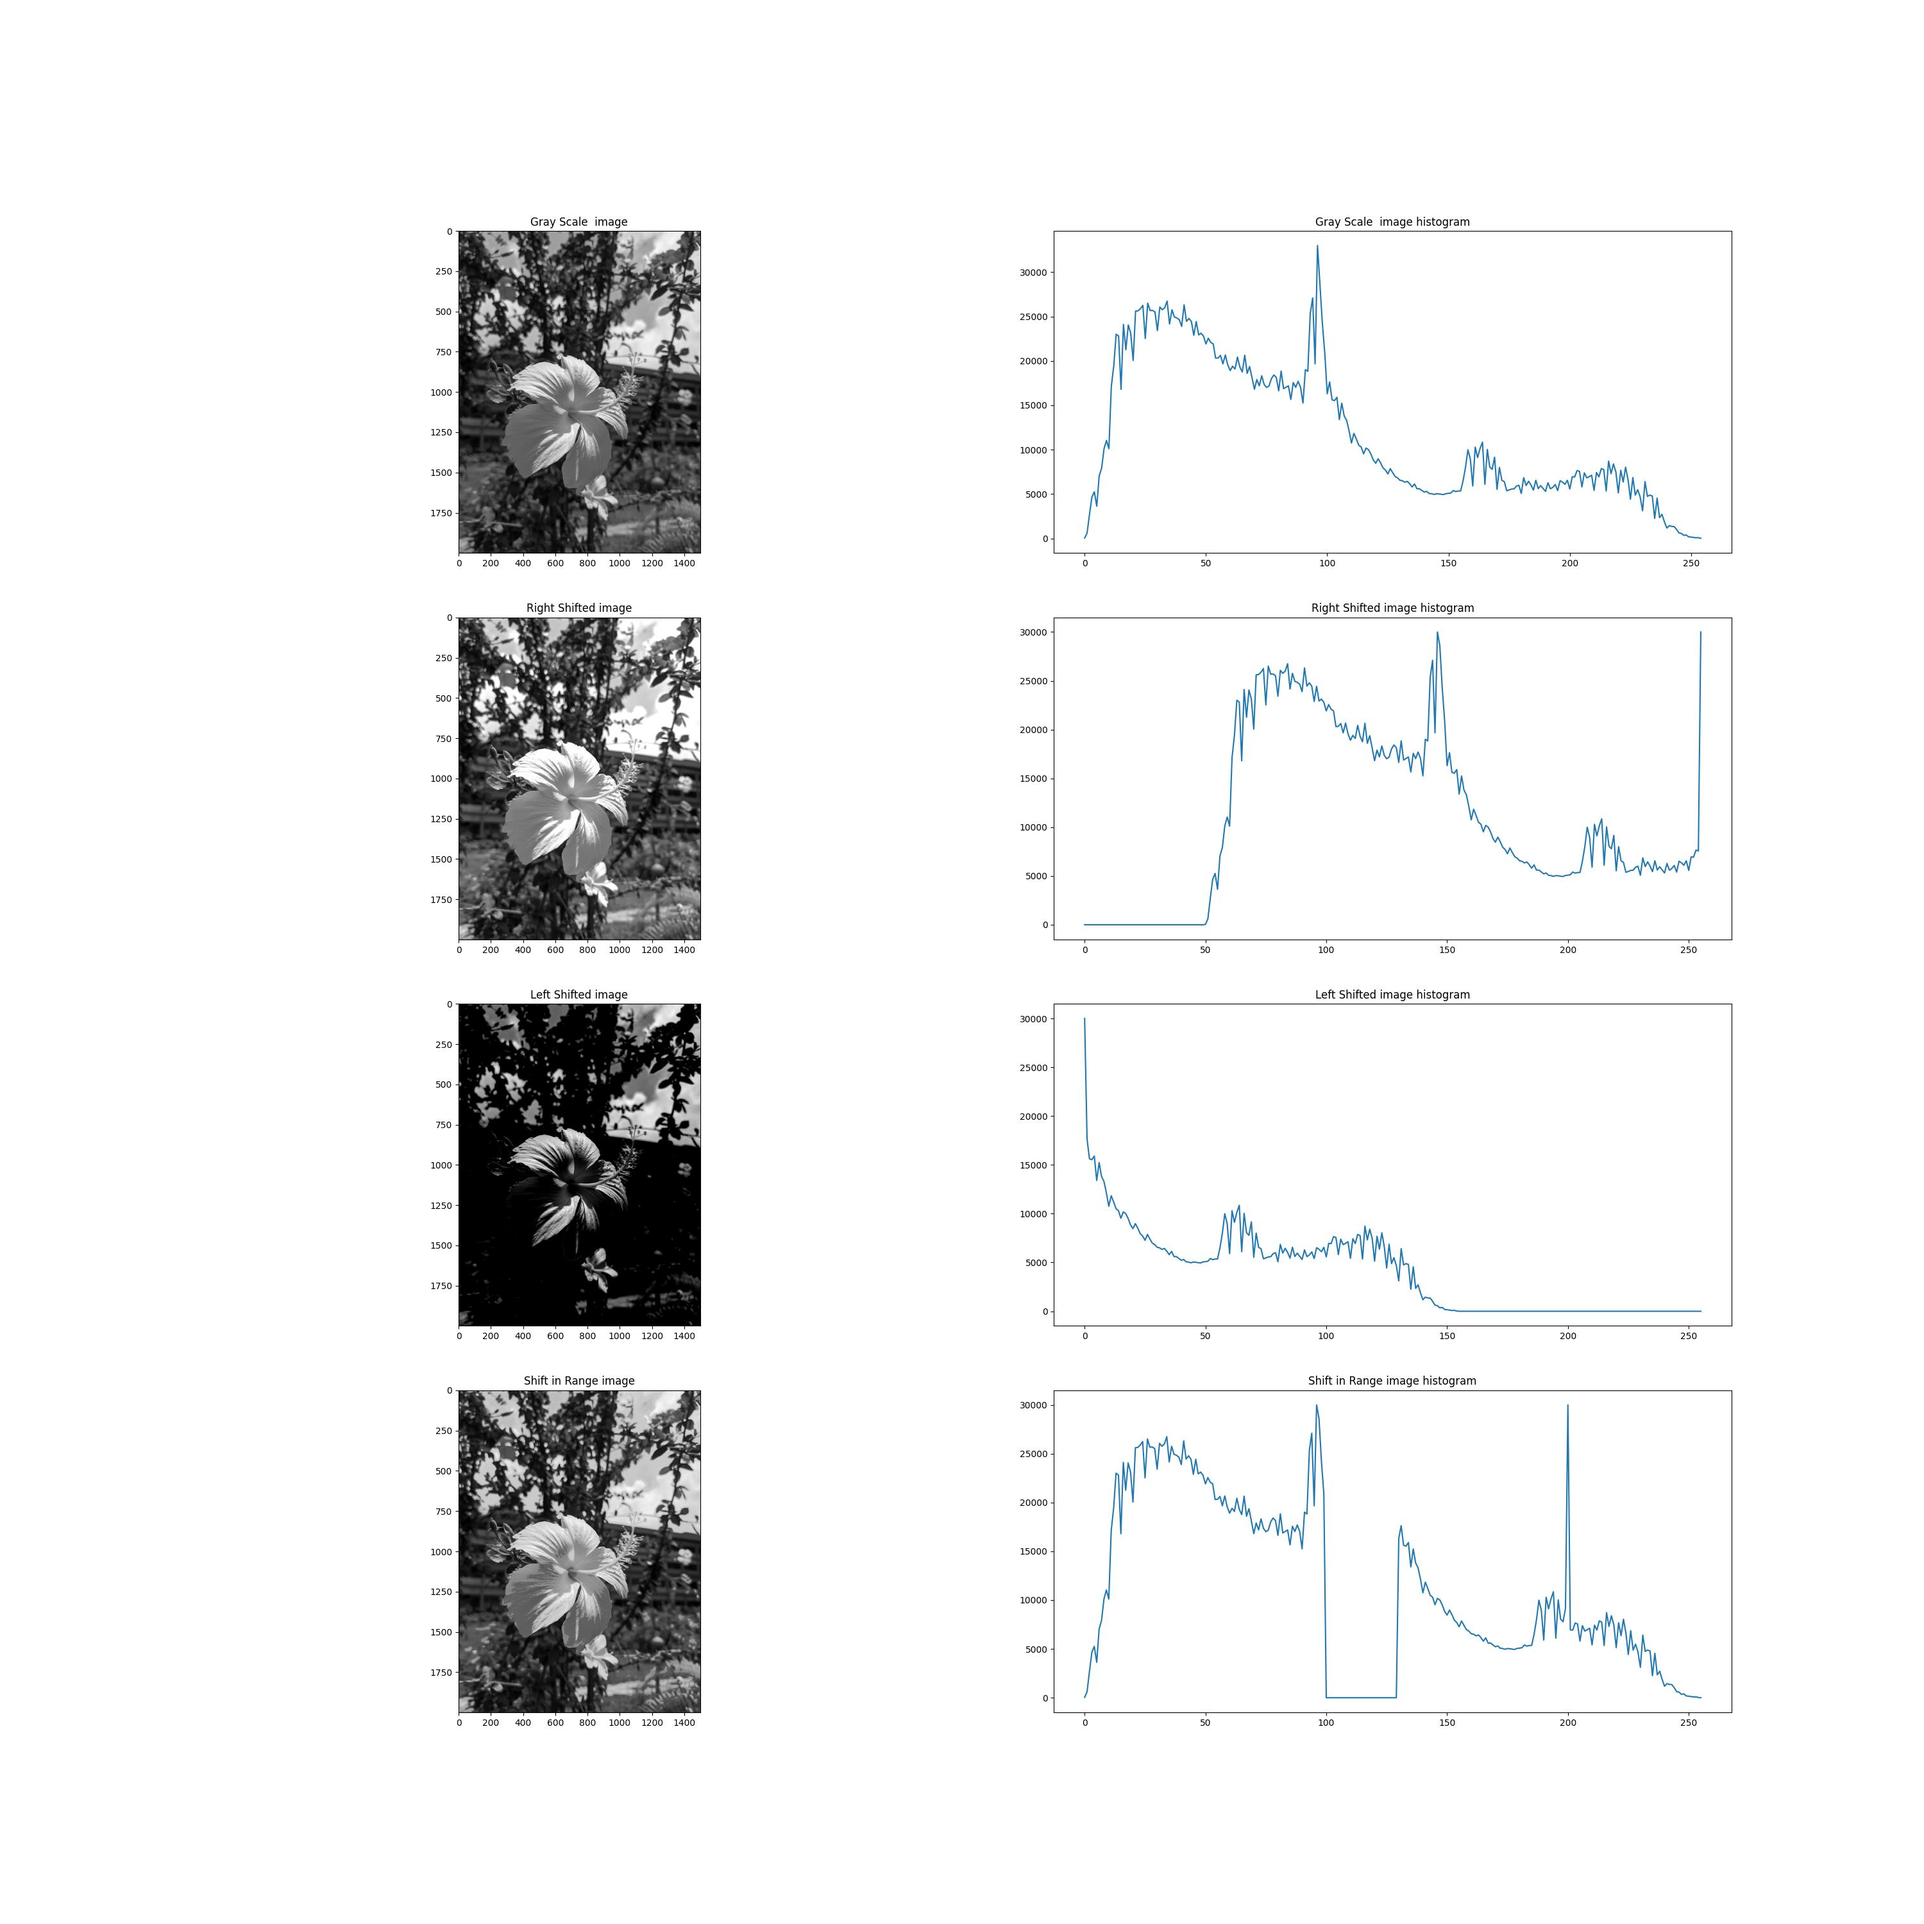
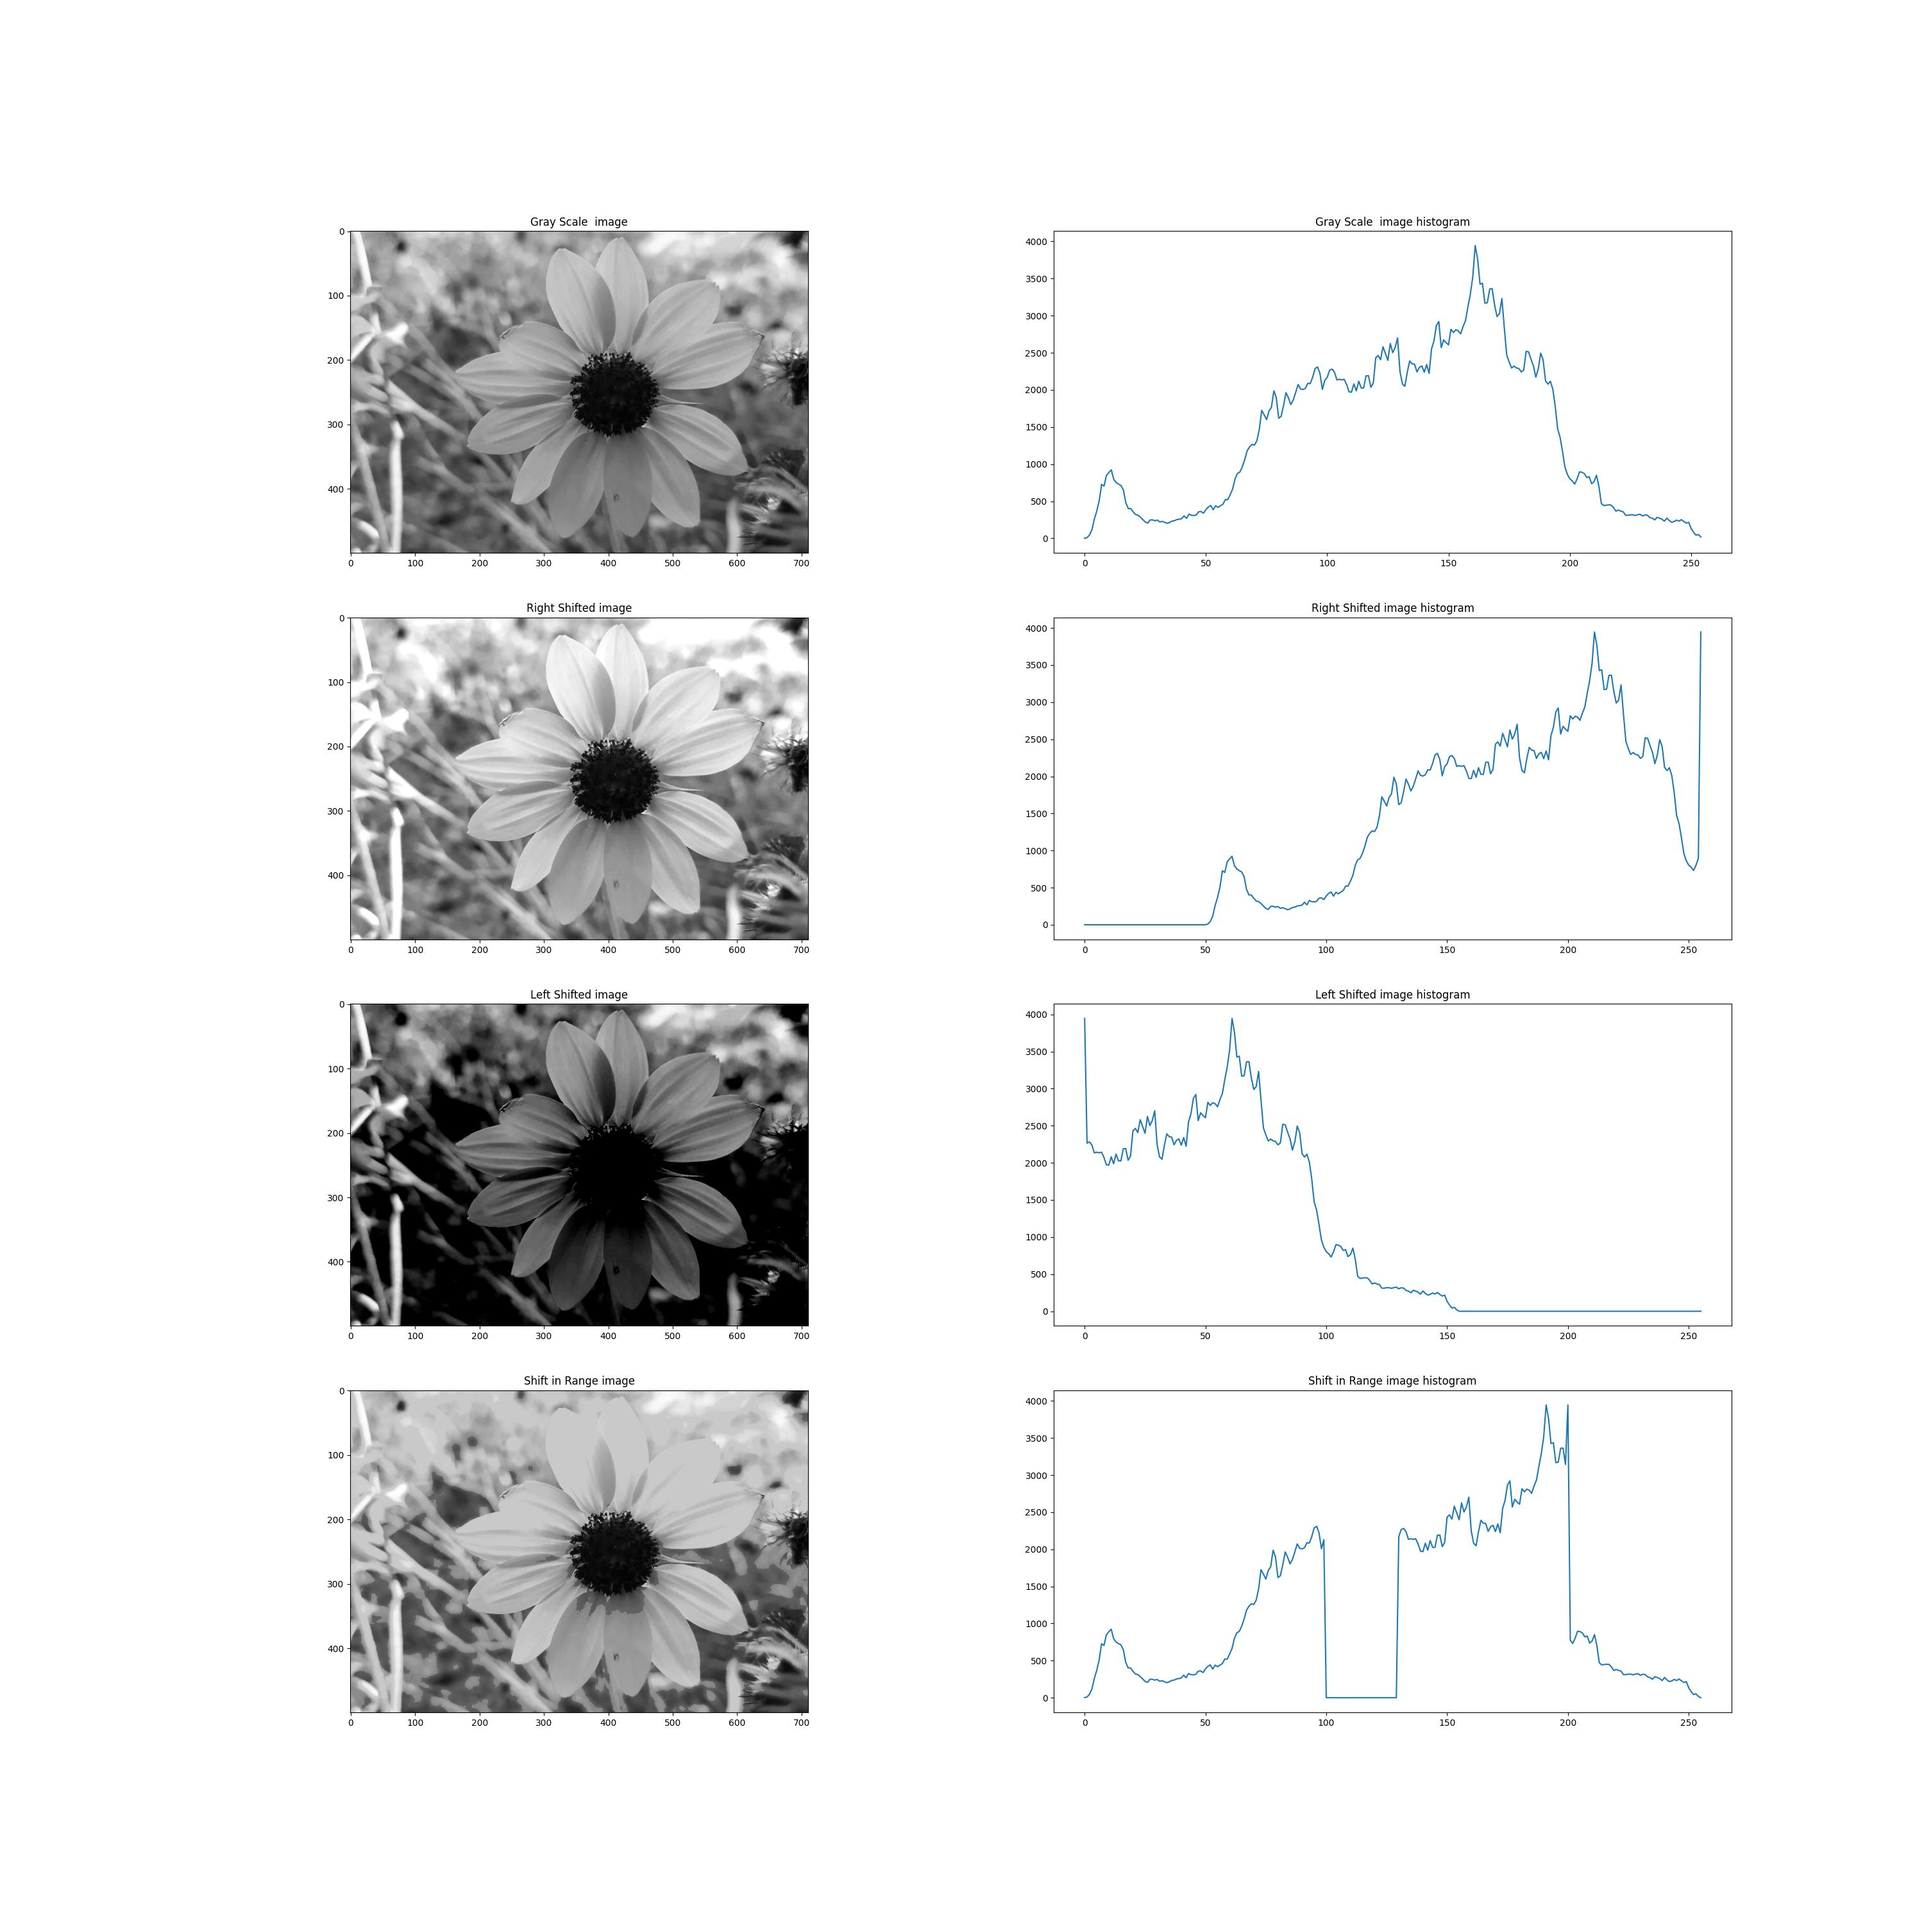
assignment7 completed

diff --git a/assignment7/1811076117.py b/assignment7/1811076117.py
@@ -3,15 +3,18 @@ import cv2
 import numpy as np
 
 def main():
-	image_path = './image1.jpg'
+	image_path = './sunflower2.jpg'
 	rgb_image = plt.imread(image_path)
 	
 	grayScaleImage = cv2.cvtColor(rgb_image,cv2.COLOR_RGB2GRAY)
 	grayScaleHistogram = cv2.calcHist([grayScaleImage],[0],None,[255],[0,255])
 	
-	leftShiftedImage = shiftHistogram(grayScaleImage ,-100,[0,255])
-	rightShiftedImage = shiftHistogram(grayScaleImage ,50,[0,255])
-	shiftInRange = shiftHistogram(grayScaleImage ,30,[100,200])
+	# get the highest value of histogram
+	highestValue = np.amax(grayScaleHistogram)
+
+	leftShiftedImage = shiftHistogram(grayScaleImage ,-100,[0,255],highestValue)
+	rightShiftedImage = shiftHistogram(grayScaleImage ,50,[0,255],highestValue)
+	shiftInRange = shiftHistogram(grayScaleImage ,30,[100,200],highestValue)
 	
 	drawing_list = {"Gray Scale ":[grayScaleImage,grayScaleHistogram],"Right Shifted":[rightShiftedImage[0],rightShiftedImage[1] ],"Left Shifted":[leftShiftedImage[0],leftShiftedImage[1]],"Shift in Range":[shiftInRange[0],shiftInRange[1]]}
 
@@ -19,28 +22,31 @@ def main():
 	
 def draw_figs(drawing_list):
 	n = len(drawing_list)
-	plt.figure(figsize=(30,30))
 	i=1
 	
 	for key,value in drawing_list.items():
-		plt.subplot(n,2,i)
+		plt.figure(figsize=(15,10))
+		# plt.subplot(n,2,i)
 		plt.imshow(value[0],cmap='gray')
 		plt.title(key + ' image')
+		plt.savefig('./'+key + ' image'+'.jpg')
 
-		plt.subplot(n,2,i+1)
+		plt.figure(figsize=(15,10))
+		# plt.subplot(n,2,i+1)
 		plt.plot(value[1])
 		plt.title(key + ' image histogram')
+		plt.savefig('./'+key + ' image histogram'+'.jpg')
 		
 		i+=2
 	
 	#plt.show()
-	plt.savefig('./output2.jpg')
 
-def shiftHistogram(image,distance,limit):
+def shiftHistogram(image,distance,limit,highValue):
+    
 	histogram = np.zeros(256,dtype=np.uint16)
 	new_image = np.copy(image)
 	r,c = image.shape
-	print(distance)
+	print(image.shape)
 	for i in range(r):
 		for j in range(c):
 			if(image[i][j]>=limit[0] and image[i][j]<=limit[1]):
@@ -54,8 +60,8 @@ def shiftHistogram(image,distance,limit):
 				else:
 					new_image[i][j] = temp
 				
-			if(histogram[new_image[i][j]]>=30000):
-				histogram[new_image[i][j]]=30000
+			if(histogram[new_image[i][j]]>=highValue):
+				histogram[new_image[i][j]]=highValue
 			else:
 				histogram[new_image[i][j]]+=1
 	return [new_image,histogram]
